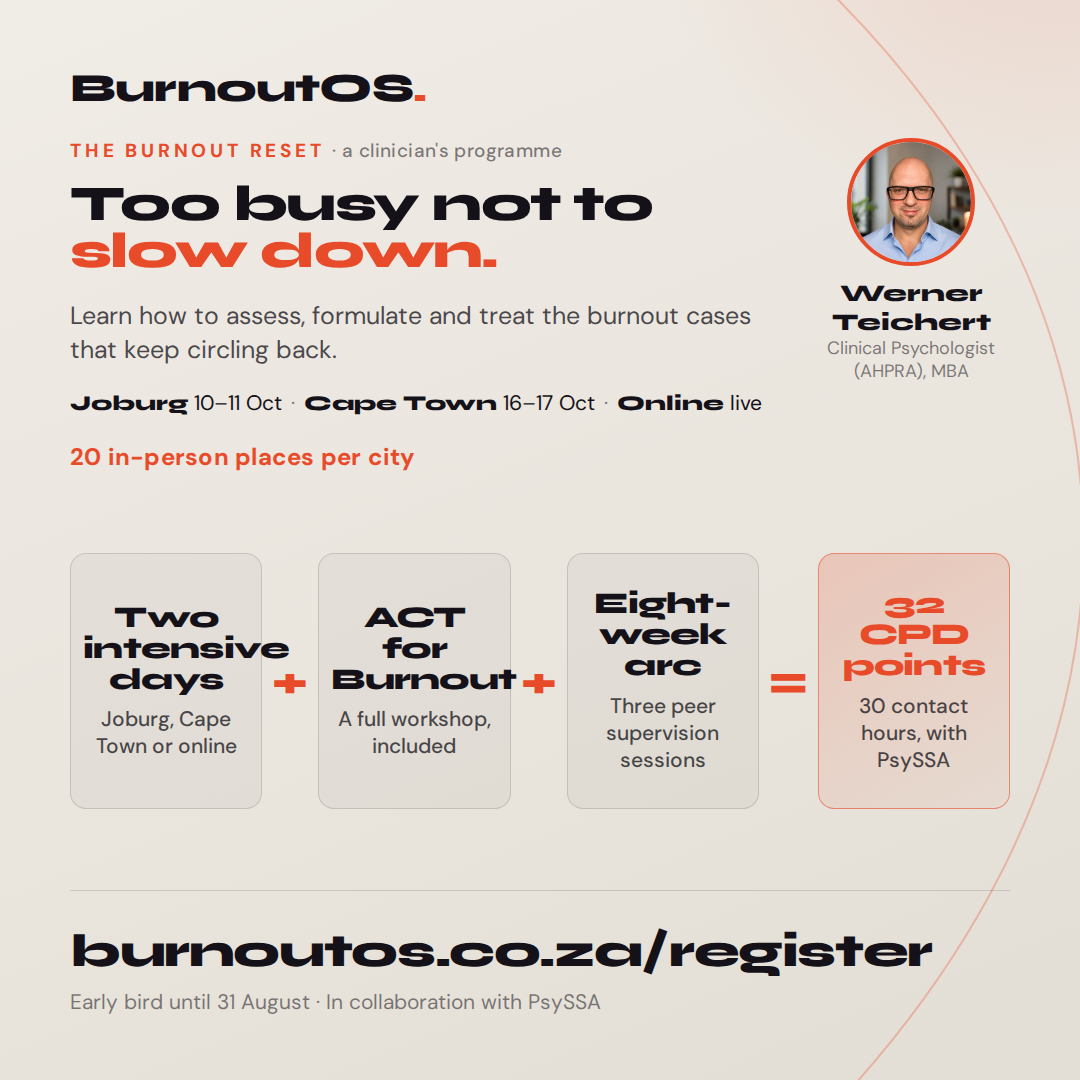
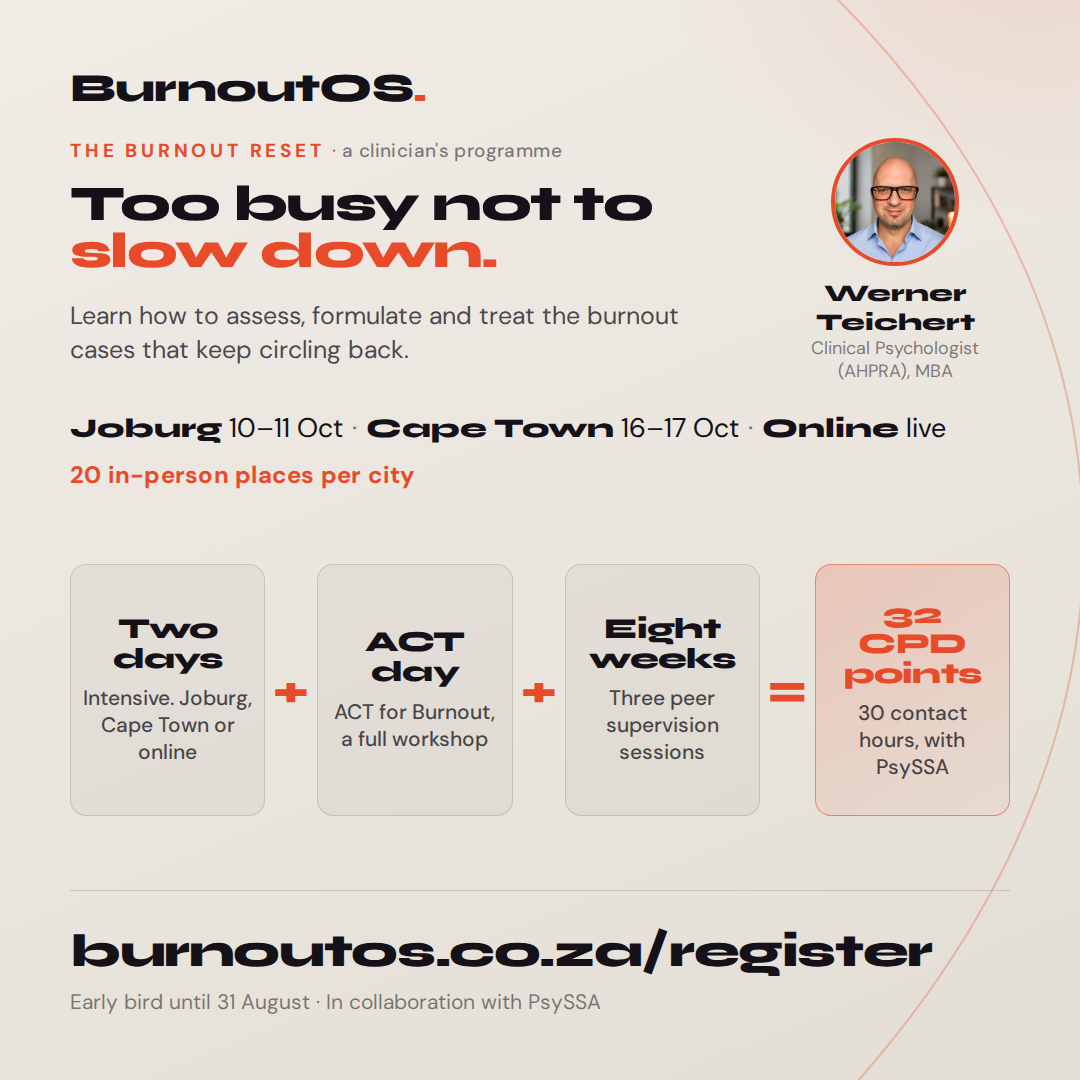
Fix text bleed in the value stack and enlarge the dates line
The stack labels were overflowing their cards. Measuring the text run
rather than the element box showed 'Two intensive days' rendering 206px
wide inside a 166px card, which is why it collided with the operator. The
element bounding box is clamped to the card, so it looked fine to a naive
check.

Labels shortened to the units that matter, with the detail moved to the
sub-line where there is room: Two days + ACT day + Eight weeks = 32 CPD
points. Cards widened by narrowing the operator column and the gaps.

Dates moved out of the narrow left column onto their own full-width row
and raised from 21px to 27px, so the three attendance options are legible
at phone scale rather than being reference detail.

Every text run now verified to sit inside the safe margin.

diff --git a/src/posters/build_posters.py b/src/posters/build_posters.py
@@ -33,7 +33,9 @@ h1 em{color:#E84B2A;font-style:normal;}
 .sq .lede{font-size:25px;} .ld .lede{font-size:19px;}
 .lede b{font-family:'Syne';font-variation-settings:'wght' 800;color:var(--fg);}
 .dates{color:var(--fg);}
-.sq .dates{font-size:21px;white-space:nowrap;}
+.sq .dates{font-size:27px;}
+.ld .dates{font-size:24px;}
+.dates{white-space:nowrap;}
 .dates b{font-family:'Syne';font-variation-settings:'wght' 800;}
 .dates i{color:var(--dim);font-style:normal;margin:0 9px;}
 .scarce{color:#E84B2A;font-weight:700;letter-spacing:.01em;}
@@ -47,16 +49,16 @@ h1 em{color:#E84B2A;font-style:normal;}
 .hcred{color:var(--dim);line-height:1.3;}
 .sq .hcred{font-size:18px;} .ld .hcred{font-size:15px;}
 .spacer{flex:1;}
-.vs{display:flex;align-items:stretch;gap:10px;z-index:3;}
+.vs{display:flex;align-items:stretch;gap:8px;z-index:3;}
 .vsi{flex:1 1 0;min-width:0;hyphens:none;overflow-wrap:normal;border:1px solid var(--line);border-radius:16px;background:var(--cardbg);display:flex;flex-direction:column;justify-content:center;text-align:center;}
 .sq .vsi{padding:34px 12px;} .ld .vsi{padding:22px 10px;}
 .vsi.sum{border-color:rgba(232,75,42,.55);background:linear-gradient(150deg,rgba(232,75,42,.20),rgba(232,75,42,.04));}
 .vsm{font-family:'Syne';font-variation-settings:'wght' 800;letter-spacing:-.025em;line-height:1.03;color:var(--fg);}
-.sq .vsm{font-size:30px;} .ld .vsm{font-size:26px;}
+.sq .vsm{font-size:29px;} .ld .vsm{font-size:26px;}
 .vsi.sum .vsm{color:#E84B2A;}
 .vss{color:var(--mut);line-height:1.28;font-weight:500;}
 .sq .vss{font-size:21px;margin-top:12px;} .ld .vss{font-size:15px;margin-top:7px;}
-.vso{display:flex;align-items:center;justify-content:center;flex:0 0 34px;font-family:'Syne';font-variation-settings:'wght' 800;color:#E84B2A;}
+.vso{display:flex;align-items:center;justify-content:center;flex:0 0 26px;font-family:'Syne';font-variation-settings:'wght' 800;color:#E84B2A;}
 .sq .vso{font-size:46px;} .ld .vso{font-size:34px;}
 .foot{z-index:3;border-top:1px solid var(--line);}
 
@@ -79,9 +81,9 @@ def arc(w, h, path):
 
 
 def stack():
-    items = [("Two intensive days", "Joburg, Cape Town or online"),
-             ("ACT for Burnout", "A full workshop, included"),
-             ("Eight-week arc", "Three peer supervision sessions")]
+    items = [("Two days", "Intensive. Joburg, Cape Town or online"),
+             ("ACT day", "ACT for Burnout, a full workshop"),
+             ("Eight weeks", "Three peer supervision sessions")]
     parts = []
     for n, s in items:
         parts.append('<div class="vsi"><div class="vsm">%s</div><div class="vss">%s</div></div>' % (n, s))
@@ -109,12 +111,12 @@ def square(pid, theme, qr):
      <h1>Too busy not to<br><em>slow down.</em></h1>
      <div style="height:24px"></div>
      <div class="lede">Learn how to assess, formulate and treat the burnout cases that keep circling back.</div>
-     <div style="height:22px"></div>
-     <div class="dates"><b>Joburg</b> 10&ndash;11 Oct<i>&middot;</i><b>Cape Town</b> 16&ndash;17 Oct<i>&middot;</i><b>Online</b> live</div>
    </div>
    {head}
  </div>
- <div style="height:24px"></div>
+ <div style="height:26px"></div>
+ <div class="dates"><b>Joburg</b> 10&ndash;11 Oct<i>&middot;</i><b>Cape Town</b> 16&ndash;17 Oct<i>&middot;</i><b>Online</b> live</div>
+ <div style="height:14px"></div>
  <div class="scarce">20 in-person places per city</div>
  <div class="spacer"></div>
  {vs}
@@ -137,12 +139,13 @@ LD = """
      <div style="height:11px"></div>
      <h1>Too busy not to <em>slow down.</em></h1>
      <div style="height:14px"></div>
-     <div class="lede">Assess, formulate and treat the burnout cases that keep circling back.<br>
-       <b>Joburg</b> 10&ndash;11 Oct &middot; <b>Cape Town</b> 16&ndash;17 Oct &middot; <b>Online</b> live</div>
+     <div class="lede">Assess, formulate and treat the burnout cases that keep circling back.</div>
    </div>
    {head}
  </div>
- <div style="height:16px"></div>
+ <div style="height:18px"></div>
+ <div class="dates"><b>Joburg</b> 10&ndash;11 Oct<i>&middot;</i><b>Cape Town</b> 16&ndash;17 Oct<i>&middot;</i><b>Online</b> live</div>
+ <div style="height:10px"></div>
  <div class="scarce">20 in-person places per city</div>
  <div class="spacer"></div>
  {vs}
